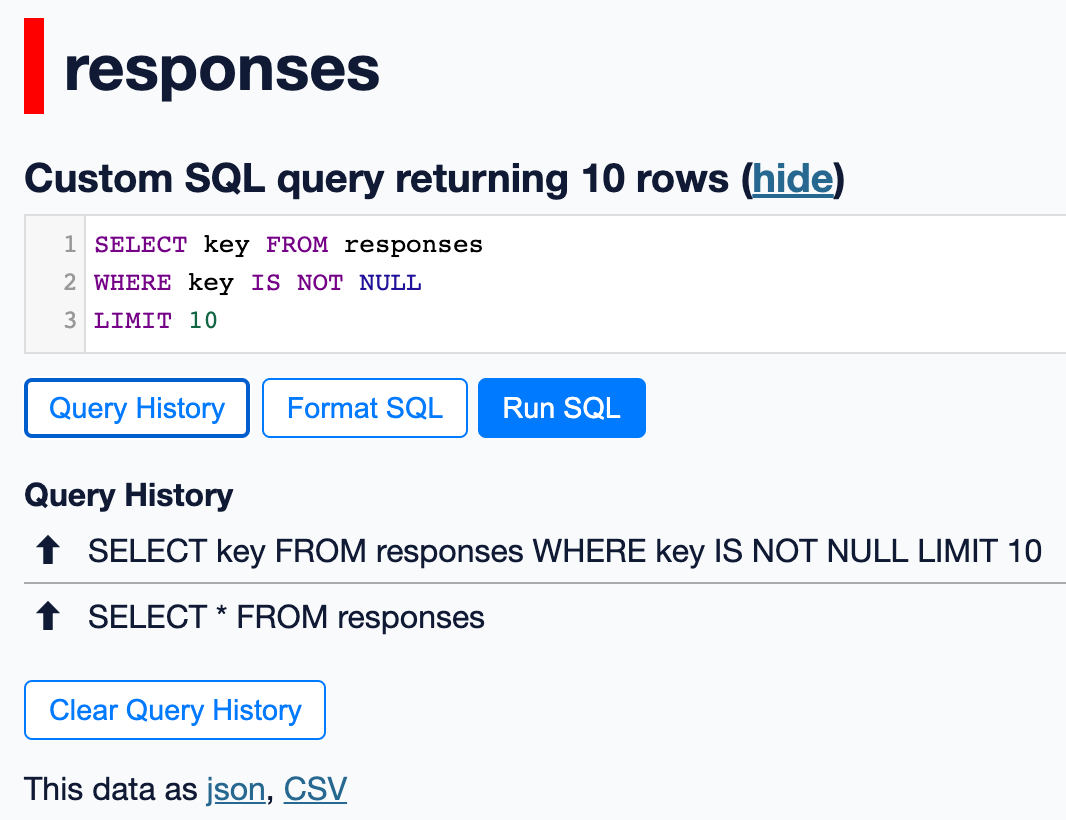
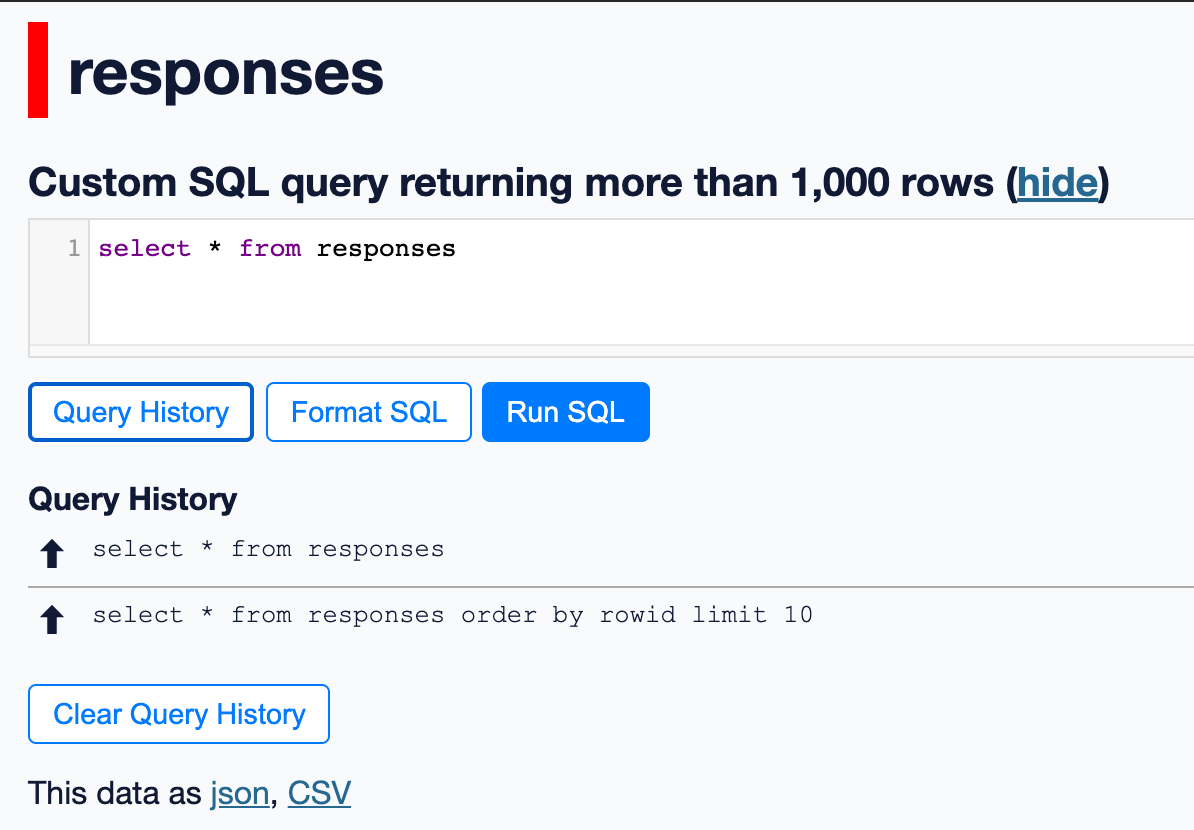
Fix typos. Use monospaced font for query history.

diff --git a/datasette_query_history/static/datasette-query-history.js b/datasette_query_history/static/datasette-query-history.js
@@ -103,6 +103,7 @@ function createHistoryTable(db, form) {
 		actionColumn.onclick = (e) => replaceCurrentQuery(db, e.target.className);
 		var queryColumn = row.insertCell();
 		queryColumn.innerText = q;
+		queryColumn.className = 'previous-query';
 	}
 
 	const clearQueryHistoryButton = document.createElement('button');

diff --git a/datasette_query_history/static/datasette-query-history.css b/datasette_query_history/static/datasette-query-history.css
@@ -3,6 +3,11 @@
 	width: 100%;
 }
 
+#query-history-table .previous-query {
+	font-family: ui-monospace, 'Courier New', sans-serif;
+	font-size: 80%;
+}
+
 #query-history-table caption {
 	text-align: left;
 	font-weight: bold;

diff --git a/setup.py b/setup.py
@@ -14,7 +14,7 @@ def get_long_description():
 
 setup(
     name="datasette-query-history",
-    description="Keeps a list of the queries you've run",
+    description="Datasette plugin that keeps a list of the queries you've run and lets you rerun them.",
     long_description=get_long_description(),
     long_description_content_type="text/markdown",
     author="Bret Walker",

diff --git a/README.md b/README.md
@@ -5,7 +5,7 @@
 [![Tests](https://github.com/bretwalker/datasette-query-history/workflows/Test/badge.svg)](https://github.com/bretwalker/datasette-query-history/actions?query=workflow%3ATest)
 [![License](https://img.shields.io/badge/license-Apache%202.0-blue.svg)](https://github.com/bretwalker/datasette-query-history/blob/main/LICENSE)
 
-Datasette plugin that eeps a list of the queries you've run and lets you rerun them
+Datasette plugin that keeps a list of the queries you've run and lets you rerun them.
 
 ## Installation
 
